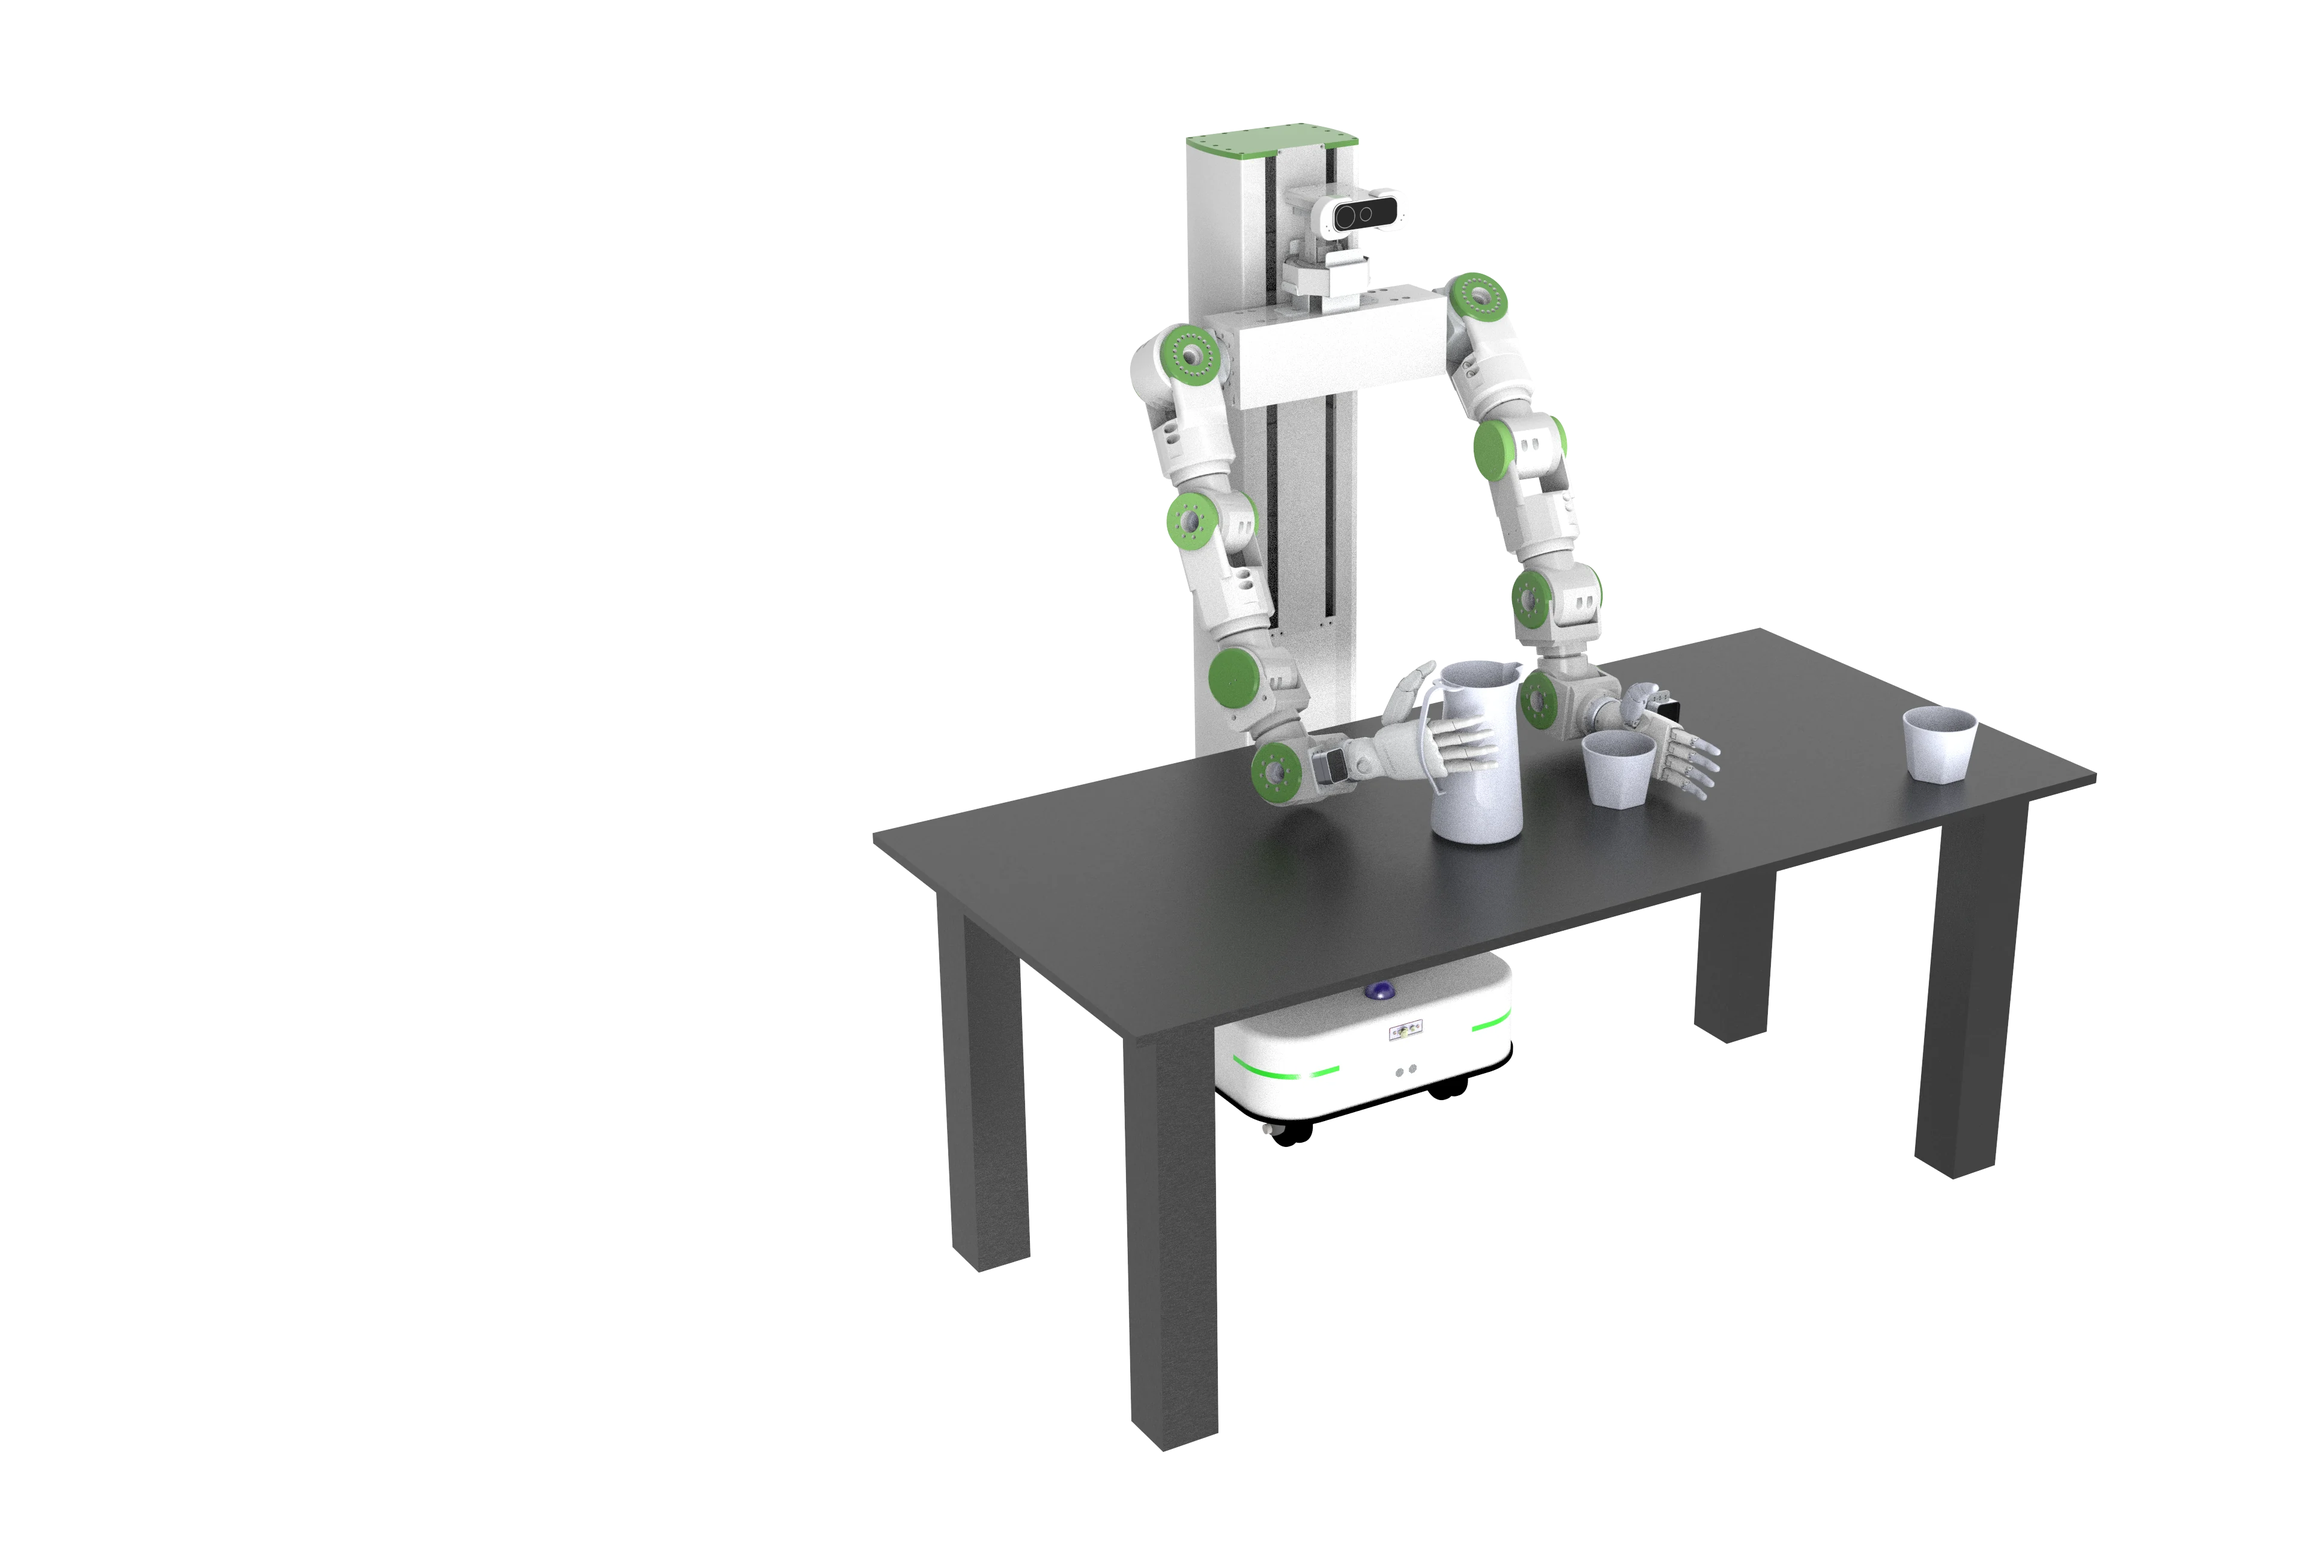
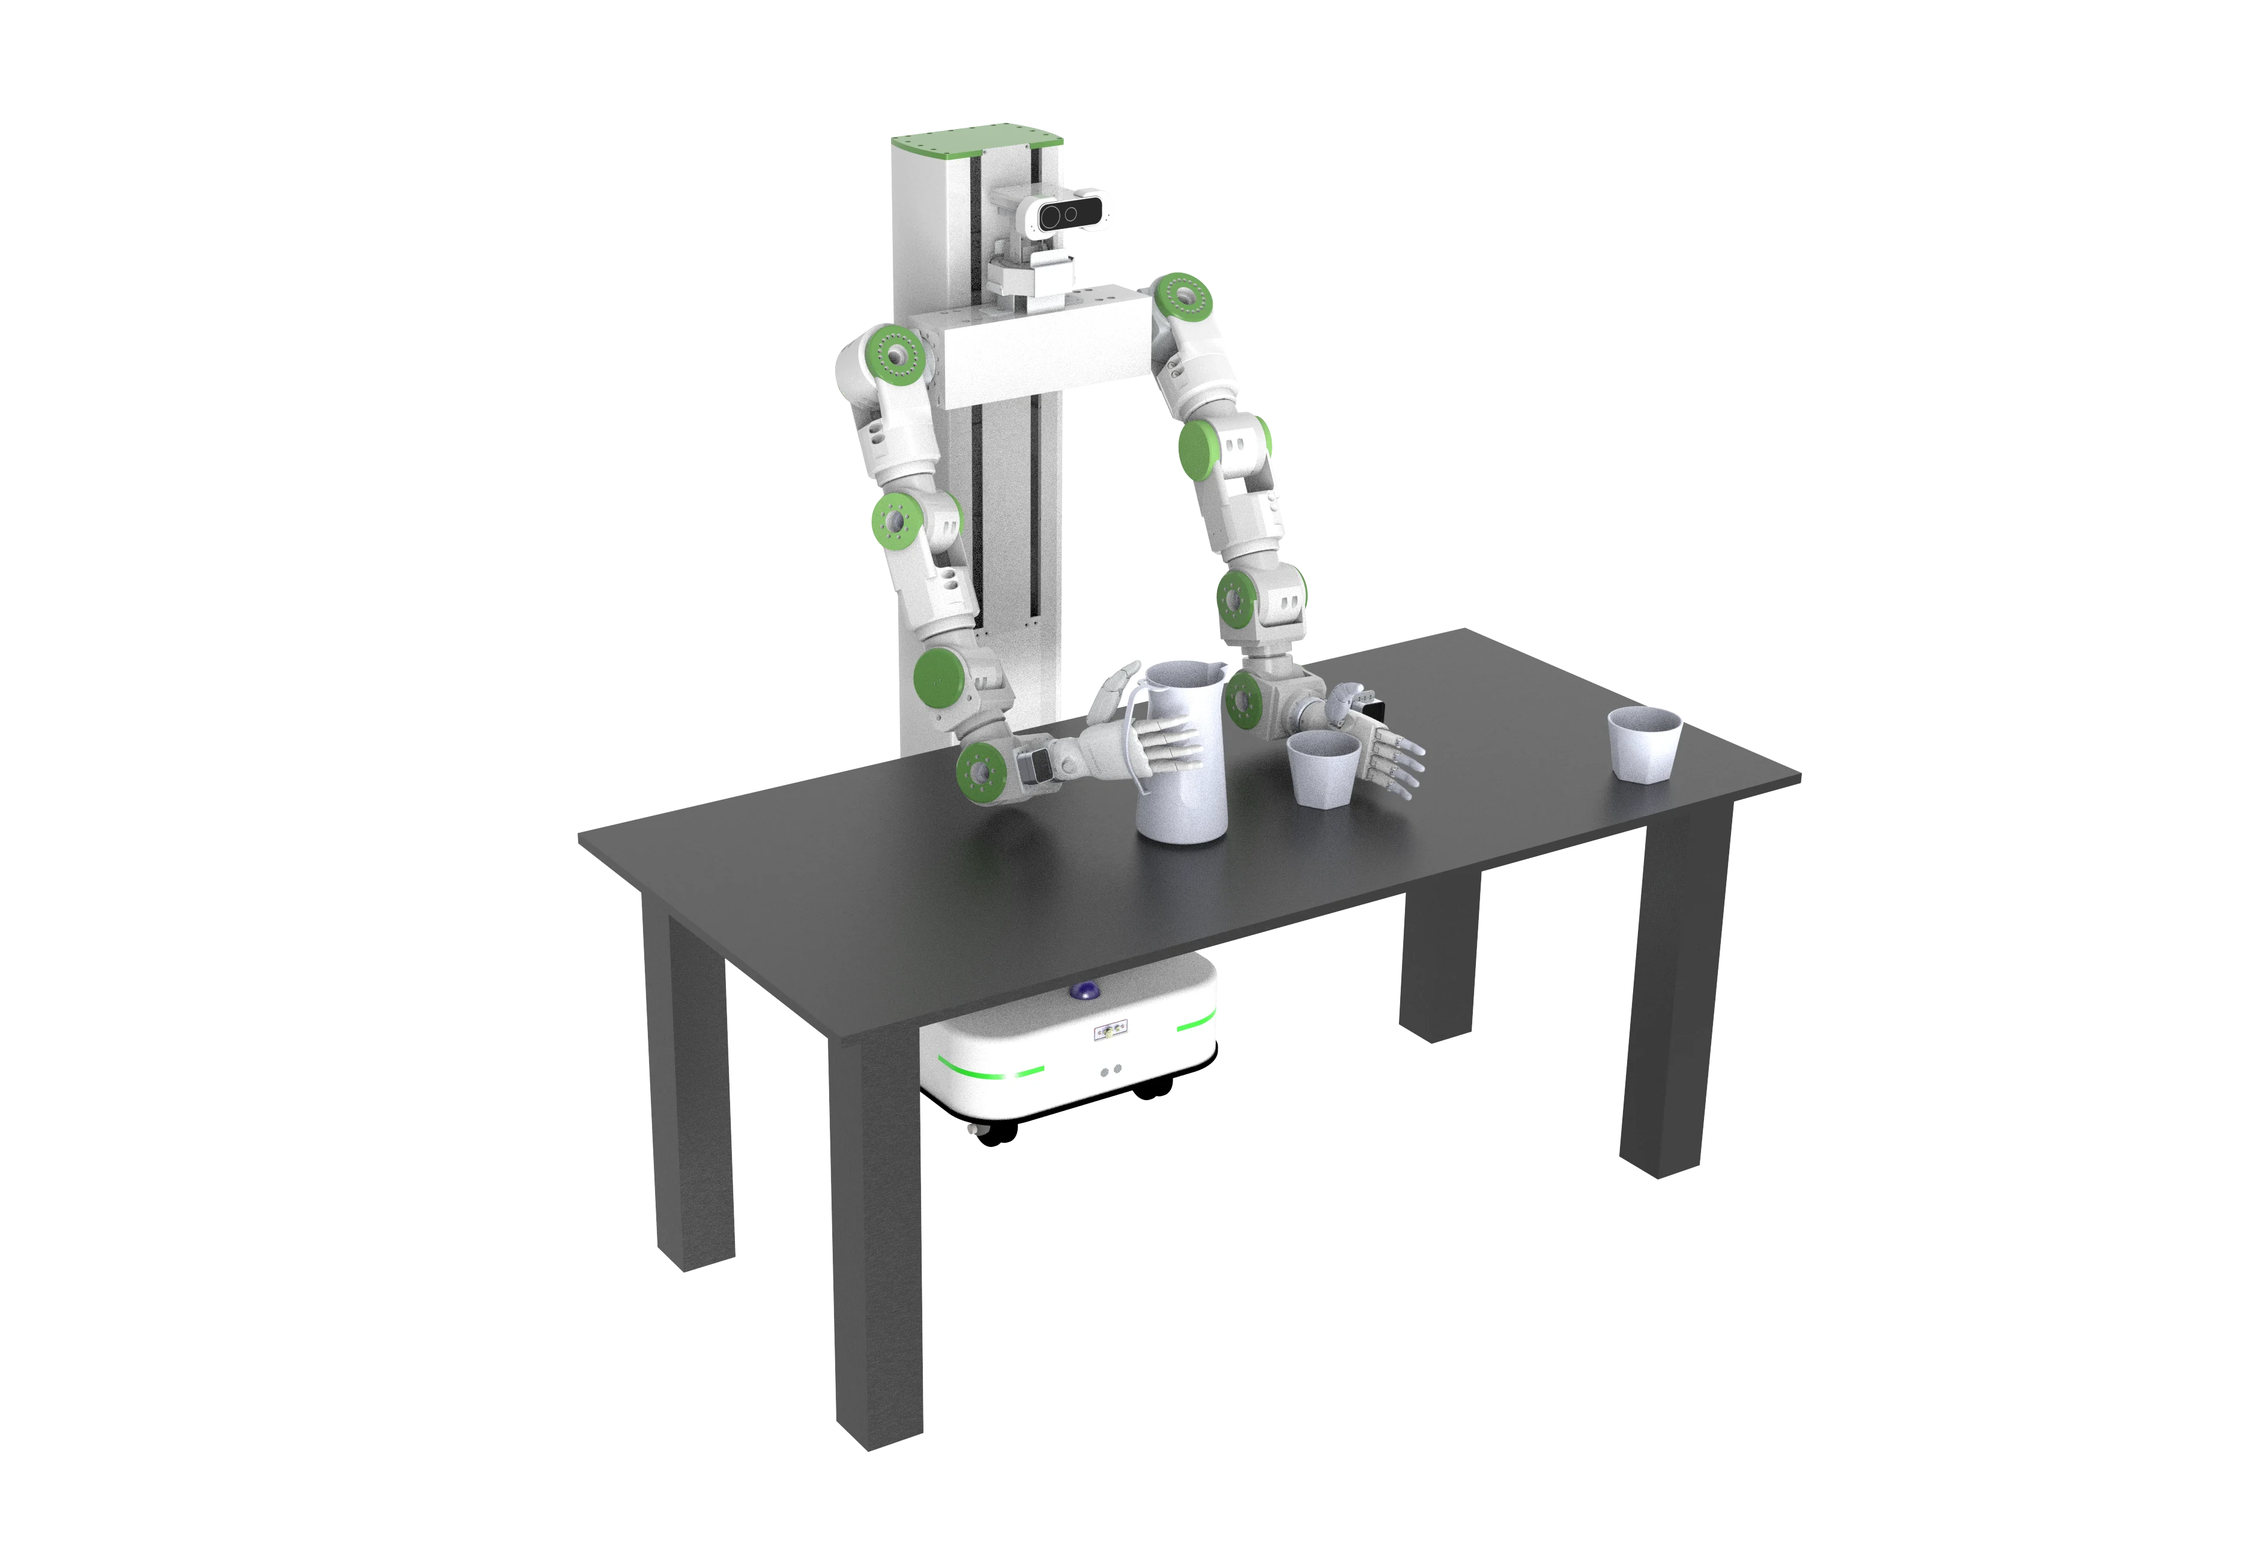
style: 调整页面背景色和卡片样式

Changed region(s): [[0.25, 0.0622, 0.9062, 0.9335]]

diff --git a/src/components/business/CoreProducts.vue b/src/components/business/CoreProducts.vue
@@ -171,7 +171,7 @@ const productFamilies = [
   min-height: 100%;
   padding: 32px;
   border-radius: 16px;
-  background: var(--brand-surface-soft, #f8f9fb);
+  background: #ffffff;
   text-decoration: none;
   color: inherit;
   transition: transform 0.4s cubic-bezier(0.16, 1, 0.3, 1), 
@@ -181,7 +181,7 @@ const productFamilies = [
 
 .family-card:hover {
   transform: translateY(-6px);
-  background-color: var(--brand-surface-soft, #f8f9fb);
+  background-color: #ffffff;
   box-shadow: 0 24px 48px rgba(15, 23, 42, 0.06);
 }
 
@@ -197,12 +197,12 @@ const productFamilies = [
   min-height: 200px;
   padding: 12px 8px;
   border-radius: 12px;
-  background: #ffffff;
+  background: #f8f9fb;
   transition: background-color 0.4s ease, box-shadow 0.4s ease;
 }
 
 .family-card:hover .family-card__visual {
-  background: #ffffff;
+  background: #f8f9fb;
   box-shadow: 0 8px 24px rgba(15, 23, 42, 0.03);
 }
 

diff --git a/src/components/business/Partners.vue b/src/components/business/Partners.vue
@@ -88,14 +88,12 @@ const partnersTyped: Partner[] = partners;
   max-width: 88%;
   object-fit: contain;
   display: block;
-  opacity: 0.6;
-  filter: grayscale(100%);
-  transition: opacity var(--transition-normal), filter var(--transition-normal), transform var(--transition-normal);
+  opacity: 1;
+  transition: opacity var(--transition-normal), transform var(--transition-normal);
 }
 
 .ecosystem-card:hover img {
   opacity: 1;
-  filter: grayscale(0%);
   transform: scale(1.08);
 }
 

diff --git a/src/views/Home.vue b/src/views/Home.vue
@@ -61,19 +61,19 @@ useScrollRevealList([productsRef, appsRef, videosRef, partnersRef]);
 
 .home-section--products {
   border-top: none;
-  background: #ffffff;
+  background: #f8f9fb;
 }
 
 .home-section--applications {
-  background: #f8f9fb;
-}
-
-.home-section--videos {
   background: #ffffff;
 }
 
-.home-section--partners {
+.home-section--videos {
   background: #f8f9fb;
+}
+
+.home-section--partners {
+  background: #ffffff;
 }
 
 @media screen and (max-width: 991px) {

diff --git a/src/components/common/ApplicationCard.vue b/src/components/common/ApplicationCard.vue
@@ -46,7 +46,7 @@ const { localizePath } = useLocalizedPath();
   padding: 32px 28px;
   border-radius: 16px;
   border: 1px solid rgba(15, 23, 42, 0.08);
-  background: linear-gradient(180deg, rgba(255, 255, 255, 0.98) 0%, rgba(248, 250, 253, 0.96) 100%);
+  background: #f8f9fb;
   box-shadow: 0 10px 28px rgba(15, 23, 42, 0.05);
   text-decoration: none;
   overflow: hidden;
